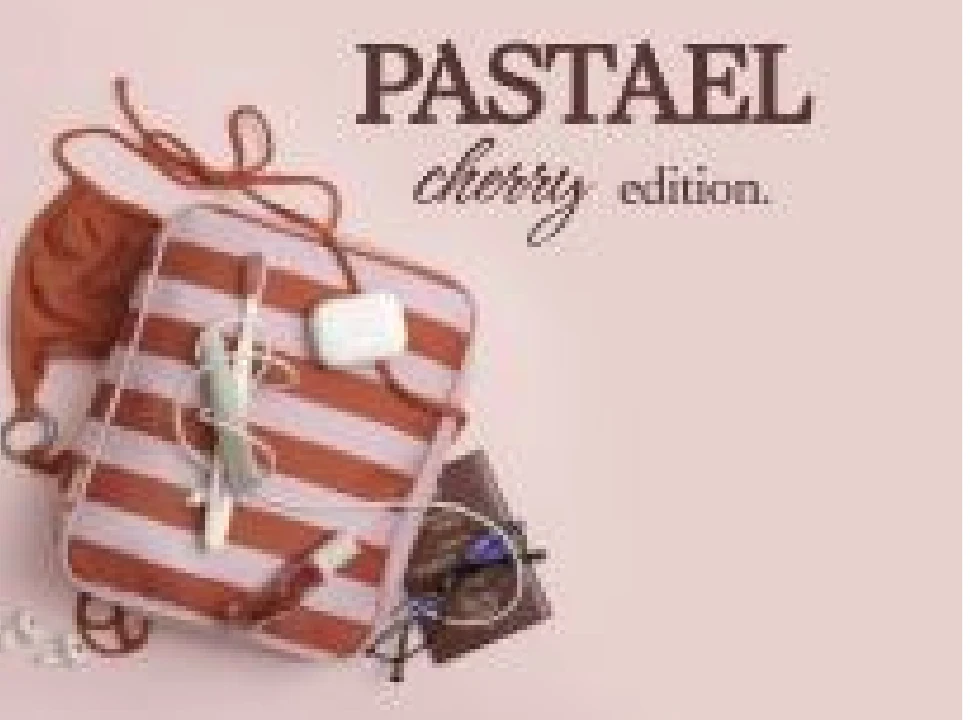
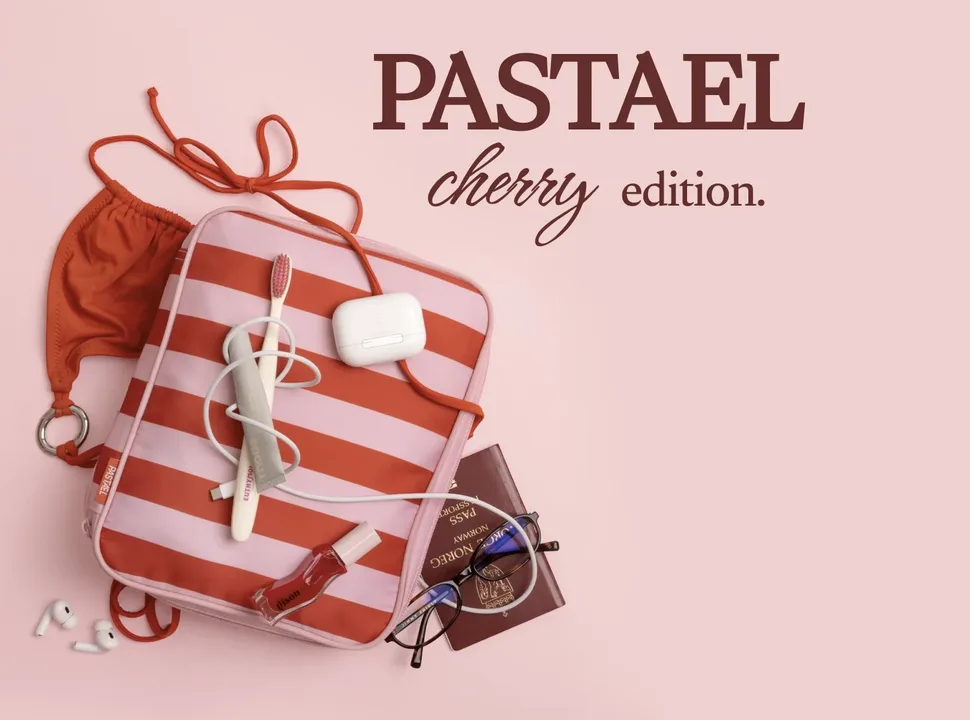
Keep the nav consistent across pages and resharpen the Pastael tile
The nav shrank on light pages because cn()'s tailwind-merge treats the custom
text-caption size as conflicting with text-bone and dropped it, so only the
dark overlay kept the larger default. Use text-base explicitly, which merge
recognises as a size, and darken light-page nav text from carbon to ink.

The creative-corner Pastael tile was cropped from a low-res render and
upscaled; recrop it from Karoline's hero export. Sharper and 10KB smaller.

diff --git a/src/components/layout/SiteNav.tsx b/src/components/layout/SiteNav.tsx
@@ -20,8 +20,8 @@ function SiteNav({ variant = 'bar', className }: SiteNavProps) {
   return (
     <header
       className={cn(
-        'z-40 flex w-full flex-wrap items-center justify-between gap-x-6 gap-y-3 px-gutter py-5 text-caption uppercase md:py-6',
-        variant === 'overlay' ? 'absolute inset-x-0 top-0 text-bone' : 'relative',
+        'z-40 flex w-full flex-wrap items-center justify-between gap-x-6 gap-y-3 px-gutter py-5 text-base uppercase md:py-6',
+        variant === 'overlay' ? 'absolute inset-x-0 top-0 text-bone' : 'relative text-ink',
         className,
       )}
     >
